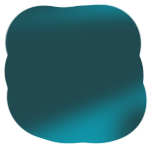
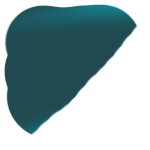
polygon lake

Changed region(s): [[0.2133, 0.16, 0.9867, 0.96]]

diff --git a/qml/levels/Level2.qml b/qml/levels/Level2.qml
@@ -7,6 +7,7 @@ GameController {
     id: scene
 
     property alias opponentSnowman: opponentSnowman
+    property alias opponentSnowman2: opponentSnowman2
     //property alias lake: lake
 
     Opponents {
@@ -16,7 +17,7 @@ GameController {
 
         rotation: 0
         opponentBody.source: "../../assets/img/opponentSnowman.png"
-/*
+        /*
         MovementAnimation {
             target: Tank
             property: "x"
@@ -45,6 +46,14 @@ GameController {
 */
     }
 
+    Opponents {
+        id: opponentSnowman2
+        x: scene.width / 2
+        y: scene.height - 520
+
+        rotation: 0
+        opponentBody.source: "../../assets/img/opponentSnowman.png"
+    }
 
 
     Wall {
@@ -104,7 +113,7 @@ GameController {
         rotation: 0
         obstacleBody.source: "../../assets/img/Ball.png"
     }
-/*
+    /*
     //load controller-elements
     GameController {
         id: gameCtrl

diff --git a/qml/Opponents.qml b/qml/Opponents.qml
@@ -164,7 +164,7 @@ EntityBase {
                     var collidedColliderComponent = other.parent.parent;
                     var collidedEntity = collidedColliderComponent.parent;
 
-                    if(collidedEntity.entityId !== opponent.entityId && collidedEntity.entityId !== lake.entityId){
+                    if(collidedEntity.entityId !== opponent.entityId && collidedEntity.entityId !== "lake"){
                         console.log("opponent bullet collides with another object:" + singleBulletOpponent.entityId + " / " + collidedEntity.entityId)
                         singleBulletOpponent.destroy()
                     }

diff --git a/qml/Lake.qml b/qml/Lake.qml
@@ -21,13 +21,21 @@ EntityBase {
         anchors.centerIn: parent
     }
 
-    BoxCollider {
+    PolygonCollider {
         id: boxCollider
 
+        /*
         // the image and the physics will use this size
         //anchors.fill: lakeBody
         width: lakeBody.width-140
         height: lakeBody.height-140
+        */
+
+        vertices: [
+            Qt.point(lakeBody.x+50,lakeBody.y+50),
+            Qt.point(lakeBody.x+lakeBody.width-50, lakeBody.y+50),
+            Qt.point(lakeBody.x+50, lakeBody.y+lakeBody.height-50)
+        ]
 
         anchors.centerIn: parent
 

diff --git a/qml/scenes/GameOverScene.qml b/qml/scenes/GameOverScene.qml
@@ -16,9 +16,9 @@ SceneBase {
     MenuButton {
         text: "Back"
         // anchor the button to the gameWindowAnchorItem to be on the edge of the screen on any device
-        anchors.right: creditsScene.right
+        anchors.right: gameOverScene.right
         anchors.rightMargin: 10
-        anchors.top: creditsScene.top
+        anchors.top: gameOverScene.top
         anchors.topMargin: 10
         onClicked: backPressed()
     }
